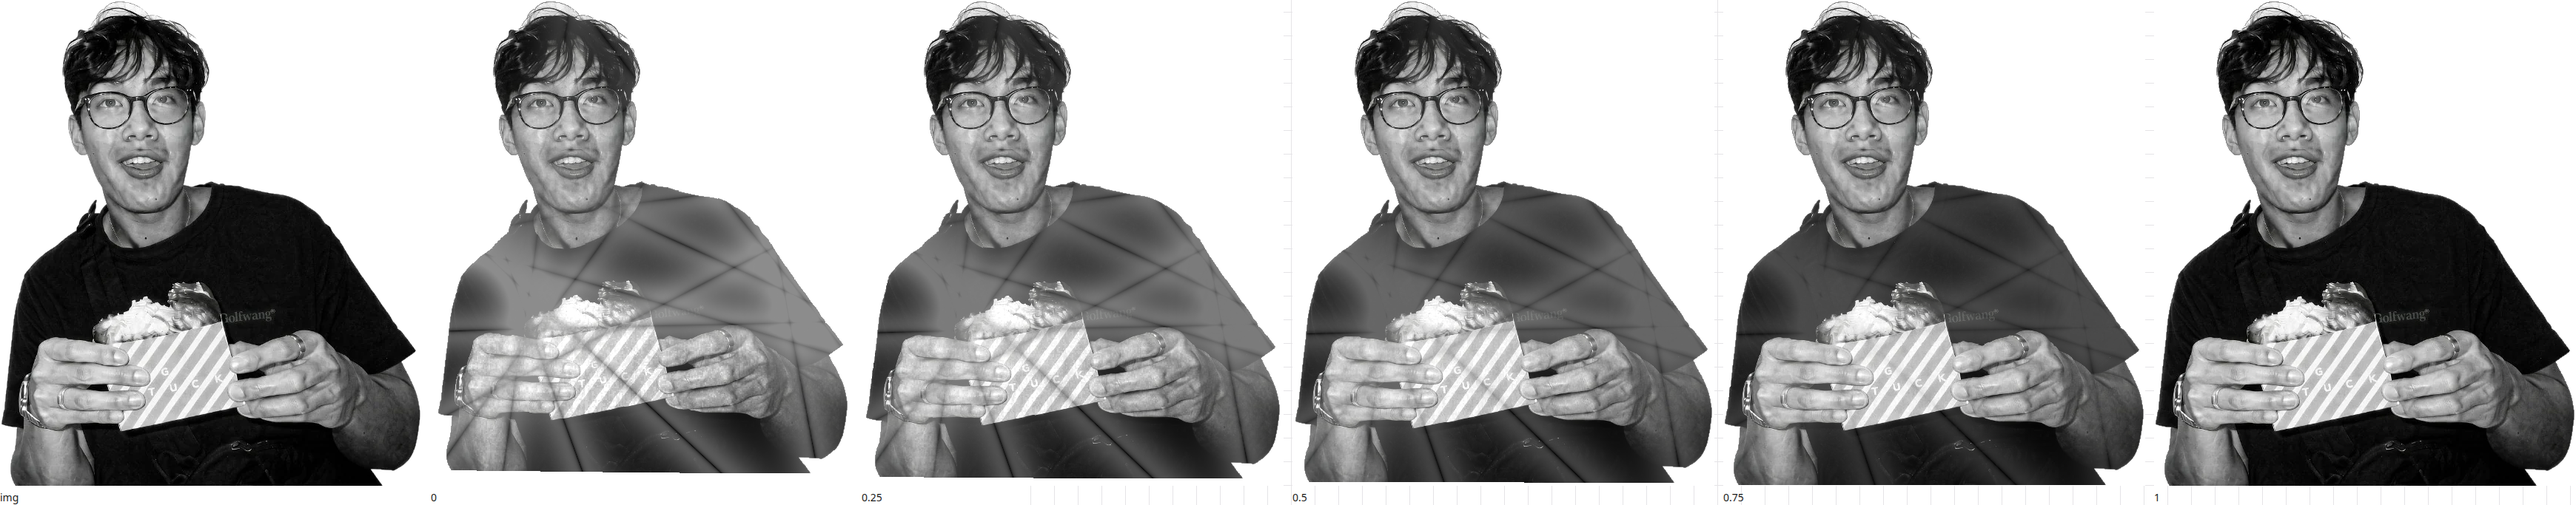
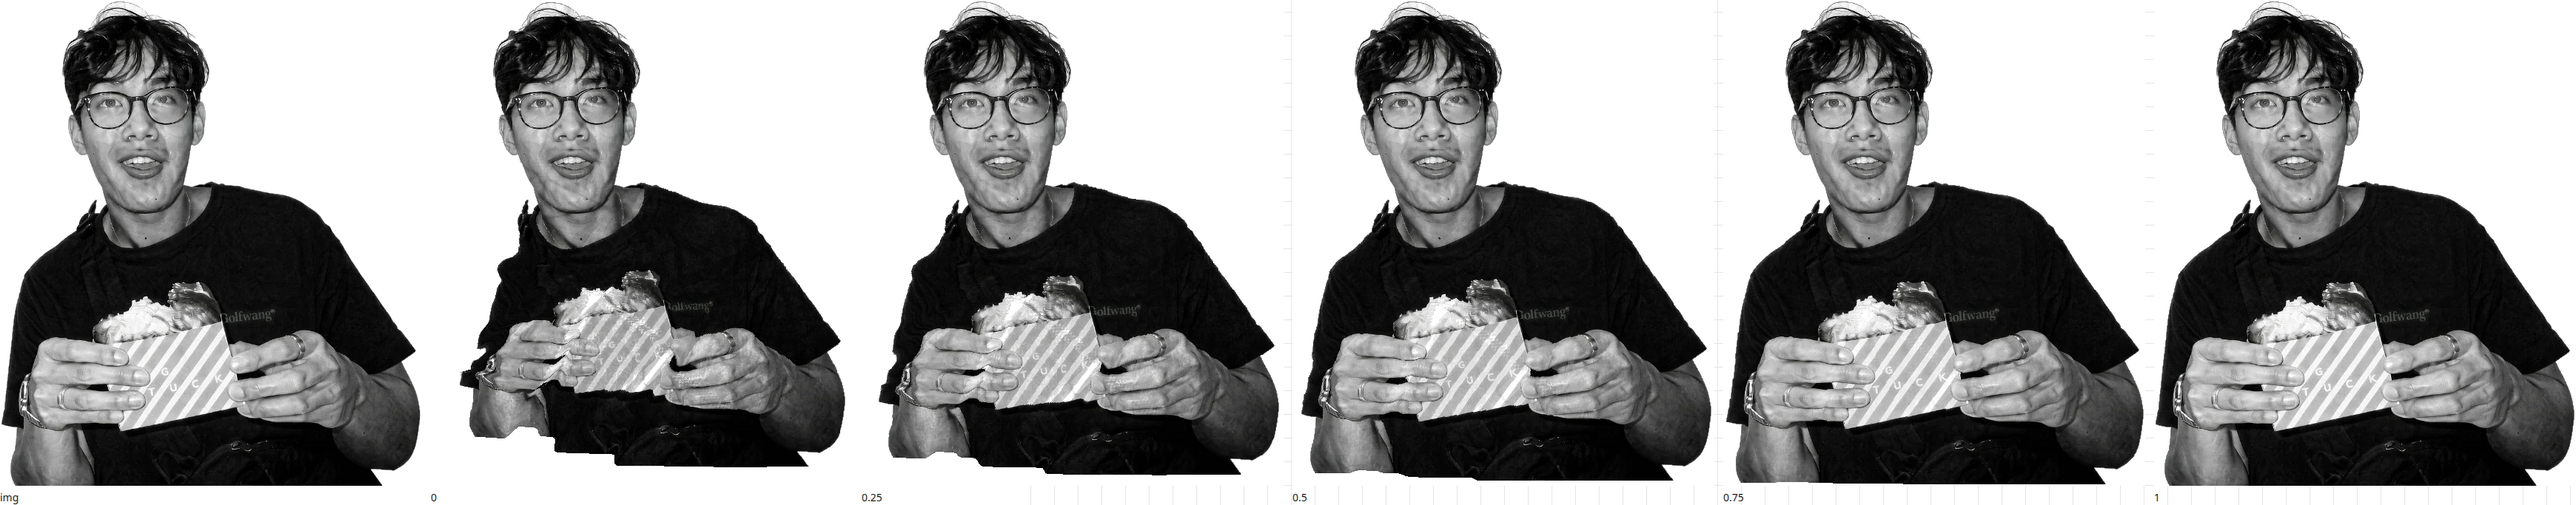
Shade the hinges without lifting the blacks.
Facet light, paper wrinkles, and crease lines all multiply the photo, and shorter creases break the big planes.

diff --git a/src/lib/crumpleMaterial.js b/src/lib/crumpleMaterial.js
@@ -9,20 +9,74 @@ import {
   Vector2,
 } from 'three'
 
-const foldParams = `
+const shared = `
+float broadFace(vec2 uv) {
+  vec2 q = (uv - vec2(0.32, 0.80)) / vec2(0.26, 0.30);
+  return 1.0 - smoothstep(0.72, 1.35, length(q));
+}
+
+float faceCore(vec2 uv) {
+  vec2 q = (uv - vec2(0.32, 0.73)) / vec2(0.145, 0.100);
+  return 1.0 - smoothstep(0.78, 1.02, length(q));
+}
+
+float foldDepth(vec2 uv) {
+  return mix(1.0, 0.12, broadFace(uv));
+}
+
 void foldAt(int i, out float ang, out float off, out float amp) {
-  ang = 0.18; off = 0.315; amp = -0.366;
-  if (i == 1) { ang = 0.65; off = 0.225; amp = 0.489; }
-  if (i == 2) { ang = 1.12; off = 0.039; amp = -0.471; }
-  if (i == 3) { ang = 1.59; off = -0.209; amp = 0.324; }
-  if (i == 4) { ang = 2.06; off = -0.162; amp = -0.412; }
-  if (i == 5) { ang = 2.53; off = 0.078; amp = 0.499; }
-  if (i == 6) { ang = 3.00; off = 0.249; amp = -0.438; }
-  if (i == 7) { ang = 3.47; off = 0.319; amp = 0.290; }
-  if (i == 8) { ang = 3.94; off = 0.277; amp = -0.451; }
-  if (i == 9) { ang = 4.41; off = 0.130; amp = 0.497; }
-  if (i == 10) { ang = 4.88; off = -0.096; amp = -0.396; }
-  if (i == 11) { ang = 5.35; off = -0.278; amp = 0.343; }
+  ang = 0.18; off = 0.315; amp = -0.567;
+  if (i == 1) { ang = 0.65; off = 0.225; amp = 0.758; }
+  if (i == 2) { ang = 1.12; off = 0.039; amp = -0.730; }
+  if (i == 3) { ang = 1.59; off = -0.209; amp = 0.502; }
+  if (i == 4) { ang = 2.06; off = -0.162; amp = -0.639; }
+  if (i == 5) { ang = 2.53; off = 0.078; amp = 0.773; }
+  if (i == 6) { ang = 3.00; off = 0.249; amp = -0.679; }
+  if (i == 7) { ang = 3.47; off = 0.319; amp = 0.450; }
+  if (i == 8) { ang = 3.94; off = 0.277; amp = -0.699; }
+  if (i == 9) { ang = 4.41; off = 0.130; amp = 0.770; }
+  if (i == 10) { ang = 4.88; off = -0.096; amp = -0.614; }
+  if (i == 11) { ang = 5.35; off = -0.278; amp = 0.532; }
+}
+
+void segAt(int i, out vec2 a, out vec2 b, out float amp) {
+  a = vec2(0.028, 0.837); b = vec2(0.416, 0.982); amp = -0.664;
+  if (i == 1) { a = vec2(0.011, 0.657); b = vec2(0.213, 0.826); amp = 0.608; }
+  if (i == 2) { a = vec2(0.807, 0.330); b = vec2(0.871, 0.600); amp = -0.522; }
+  if (i == 3) { a = vec2(0.899, 0.463); b = vec2(0.620, 0.738); amp = -0.761; }
+  if (i == 4) { a = vec2(0.401, 0.048); b = vec2(0.505, 0.320); amp = 0.711; }
+  if (i == 5) { a = vec2(0.602, 0.071); b = vec2(0.955, 0.156); amp = -0.721; }
+  if (i == 6) { a = vec2(0.635, 0.599); b = vec2(0.444, 0.888); amp = 0.727; }
+  if (i == 7) { a = vec2(0.695, 0.409); b = vec2(0.446, 0.605); amp = 0.638; }
+  if (i == 8) { a = vec2(0.454, 0.814); b = vec2(0.847, 0.948); amp = 0.727; }
+  if (i == 9) { a = vec2(0.216, 0.049); b = vec2(0.383, 0.215); amp = 0.710; }
+  if (i == 10) { a = vec2(0.449, 0.437); b = vec2(0.418, 0.763); amp = -0.601; }
+  if (i == 11) { a = vec2(0.925, 0.520); b = vec2(0.763, 0.867); amp = 0.636; }
+  if (i == 12) { a = vec2(0.518, 0.029); b = vec2(0.639, 0.393); amp = 0.683; }
+  if (i == 13) { a = vec2(0.927, 0.767); b = vec2(0.666, 0.890); amp = 0.660; }
+  if (i == 14) { a = vec2(0.083, 0.354); b = vec2(0.109, 0.734); amp = -0.763; }
+  if (i == 15) { a = vec2(0.016, 0.182); b = vec2(0.321, 0.425); amp = 0.523; }
+  if (i == 16) { a = vec2(0.821, 0.044); b = vec2(0.986, 0.236); amp = 0.584; }
+  if (i == 17) { a = vec2(0.539, 0.411); b = vec2(0.837, 0.425); amp = -0.734; }
+  if (i == 18) { a = vec2(0.377, 0.433); b = vec2(0.109, 0.513); amp = -0.742; }
+  if (i == 19) { a = vec2(0.235, 0.385); b = vec2(0.548, 0.493); amp = -0.685; }
+}
+
+vec2 planeOf(vec2 uv, vec2 plane) {
+  return vec2((uv.x - 0.5) * plane.x, (uv.y - 0.5) * plane.y);
+}
+
+void hinge(vec2 p, vec2 n, float across, float amp, float depth, float k, float mask, inout vec3 disp) {
+  float rot = step(0.0, across) * amp * depth * k * mask;
+  disp.xy += n * across * (cos(rot) - 1.0) * 0.14;
+  disp.z += across * sin(rot);
+}
+
+void creaseInk(float ad, float mask, inout float valley, inout float ridge) {
+  float v = exp(-ad * 0.30) * mask;
+  float s = exp(-ad * 0.11) * mask;
+  valley += v;
+  ridge += max(s - v, 0.0);
 }
 `
 
@@ -32,22 +86,15 @@ uniform vec2 uPlane;
 varying vec2 vUv;
 varying vec3 vView;
 varying vec2 vPlane;
-varying float vDepth;
 
-float foldDepth(vec2 uv) {
-  vec2 q = (uv - vec2(0.32, 0.80)) / vec2(0.26, 0.30);
-  float face = 1.0 - smoothstep(0.72, 1.35, length(q));
-  return mix(1.0, 0.12, face);
-}
-
-${foldParams}
+${shared}
 
 void main() {
   vUv = uv;
   float k = 1.0 - uProgress;
   float span = min(uPlane.x, uPlane.y);
   float depth = foldDepth(uv);
-  vDepth = depth;
+  float segDepth = depth * (1.0 - faceCore(uv));
   vec3 disp = vec3(0.0);
   for (int i = 0; i < 12; i++) {
     float ang;
@@ -55,15 +102,29 @@ void main() {
     float amp;
     foldAt(i, ang, off, amp);
     vec2 n = vec2(cos(ang), sin(ang));
-    float d = dot(position.xy, n) - off * span;
-    float rot = step(0.0, d) * amp * depth * k;
-    disp.xy += n * d * (cos(rot) - 1.0) * 0.22;
-    disp.z += d * sin(rot);
+    float across = dot(position.xy, n) - off * span;
+    hinge(position.xy, n, across, amp, depth, k, 1.0, disp);
   }
-  vec3 pos = position + disp;
-  vPlane = position.xy;
-  vec4 view = modelViewMatrix * vec4(pos, 1.0);
+  for (int i = 0; i < 20; i++) {
+    vec2 a;
+    vec2 b;
+    float amp;
+    segAt(i, a, b, amp);
+    a = planeOf(a, uPlane);
+    b = planeOf(b, uPlane);
+    vec2 dir = b - a;
+    float L = length(dir);
+    dir /= max(L, 1.0e-4);
+    vec2 n = vec2(-dir.y, dir.x);
+    float along = dot(position.xy - a, dir);
+    float across = dot(position.xy - a, n);
+    float end = L * 0.08;
+    float mask = smoothstep(0.0, end, along) * smoothstep(0.0, end, L - along);
+    hinge(position.xy, n, across, amp, segDepth, k, mask, disp);
+  }
+  vec4 view = modelViewMatrix * vec4(position + disp, 1.0);
   vView = view.xyz;
+  vPlane = position.xy;
   gl_Position = projectionMatrix * view;
 }
 `
@@ -76,32 +137,34 @@ uniform vec2 uPlane;
 varying vec2 vUv;
 varying vec3 vView;
 varying vec2 vPlane;
-varying float vDepth;
 
-${foldParams}
+${shared}
 
 void main() {
   vec4 texel = texture2D(uMap, vUv);
   float k = 1.0 - uProgress;
   if (k != 0.0) {
     if (texel.a < 0.02) discard;
+    vec3 nrm = cross(dFdx(vView), dFdy(vView));
+    float nlen = length(nrm);
+    nrm = nlen > 1.0e-5 ? nrm / nlen : vec3(0.0, 0.0, 1.0);
+    if (nrm.z < 0.0) nrm = -nrm;
+    vec3 L = normalize(vec3(-0.82, 0.42, 0.39));
+    float ndl = dot(nrm, L);
+    float facet = clamp(1.0 + (ndl - L.z) * 1.45, 0.70, 1.25);
+    float face = broadFace(vUv);
+    float core = faceCore(vUv);
+    float shade = mix(1.0, facet, mix(0.35, 1.0, 1.0 - face));
+
     vec3 paper = texture2D(uPaper, vUv).rgb;
     float lum = dot(paper, vec3(0.2126, 0.7152, 0.0722));
     float gray = clamp((lum - 0.30) / 0.26, 0.0, 1.0);
     gray = gray * gray * (3.0 - 2.0 * gray);
-    float wrinkle = mix(0.80, 1.06, gray);
+    float wrinkle = mix(0.68, 1.24, gray);
     float slope = length(vec2(dFdx(lum), dFdy(lum)));
-    wrinkle *= mix(1.0, 0.72, clamp(slope * 32.0, 0.0, 1.0));
-    float amount = mix(0.3, 1.0, vDepth);
-    texel.rgb *= mix(1.0, wrinkle, k * amount);
-
-    vec3 nrm = cross(dFdx(vView), dFdy(vView));
-    float nlen = length(nrm);
-    nrm = nlen > 1e-5 ? nrm / nlen : vec3(0.0, 0.0, 1.0);
-    if (nrm.z < 0.0) nrm = -nrm;
-    float ndl = dot(nrm, normalize(vec3(-0.28, 0.42, 0.86)));
-    float facet = mix(0.58, 1.16, clamp(ndl * 0.5 + 0.5, 0.0, 1.0));
-    texel.rgb *= mix(1.0, facet, k * mix(0.2, 1.0, vDepth));
+    wrinkle *= mix(1.0, 0.74, clamp(slope * 42.0, 0.0, 1.0));
+    wrinkle = clamp(wrinkle, 0.65, 1.25);
+    shade *= mix(1.0, wrinkle, mix(0.22, 1.0, 1.0 - face));
 
     float span = min(uPlane.x, uPlane.y);
     float valley = 0.0;
@@ -112,15 +175,29 @@ void main() {
       float amp;
       foldAt(i, ang, off, amp);
       vec2 n = vec2(cos(ang), sin(ang));
-      float ad = abs(dot(vPlane, n) - off * span);
-      float v = exp(-ad * 0.16);
-      float s = exp(-ad * 0.055);
-      valley += v;
-      ridge += max(s - v, 0.0);
+      creaseInk(abs(dot(vPlane, n) - off * span), 1.0, valley, ridge);
     }
-    float weight = k * mix(0.18, 1.0, vDepth);
-    texel.rgb *= mix(1.0, 0.32, clamp(valley, 0.0, 1.0) * weight);
-    texel.rgb += clamp(ridge, 0.0, 1.0) * 0.26 * weight;
+    for (int i = 0; i < 20; i++) {
+      vec2 a;
+      vec2 b;
+      float amp;
+      segAt(i, a, b, amp);
+      a = planeOf(a, uPlane);
+      b = planeOf(b, uPlane);
+      vec2 dir = b - a;
+      float L = length(dir);
+      dir /= max(L, 1.0e-4);
+      vec2 n = vec2(-dir.y, dir.x);
+      float along = dot(vPlane - a, dir);
+      float end = L * 0.08;
+      float mask = smoothstep(0.0, end, along) * smoothstep(0.0, end, L - along);
+      creaseInk(abs(dot(vPlane - a, n)), mask, valley, ridge);
+    }
+    float ink = 1.0 - core;
+    shade *= mix(1.0, 0.60, clamp(valley, 0.0, 1.0) * ink);
+    shade *= mix(1.0, 1.22, clamp(ridge, 0.0, 1.0) * ink);
+    shade = clamp(shade, 0.65, 1.25);
+    texel.rgb *= mix(1.0, shade, k);
   }
   gl_FragColor = texel;
   #include <colorspace_fragment>
